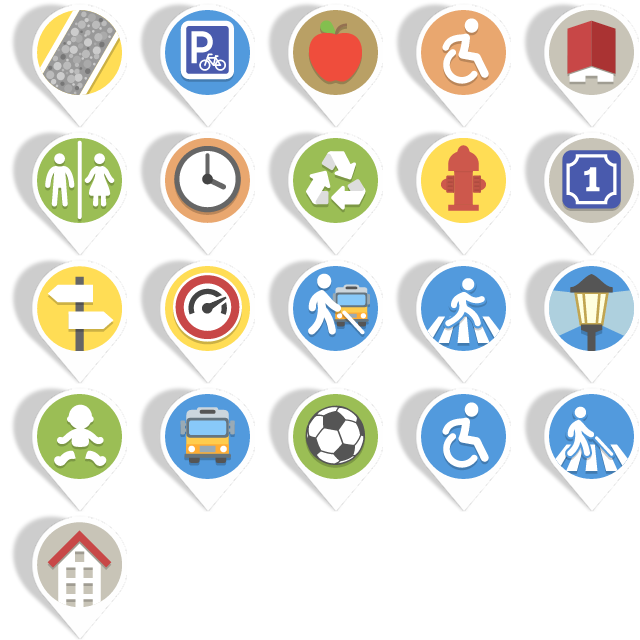
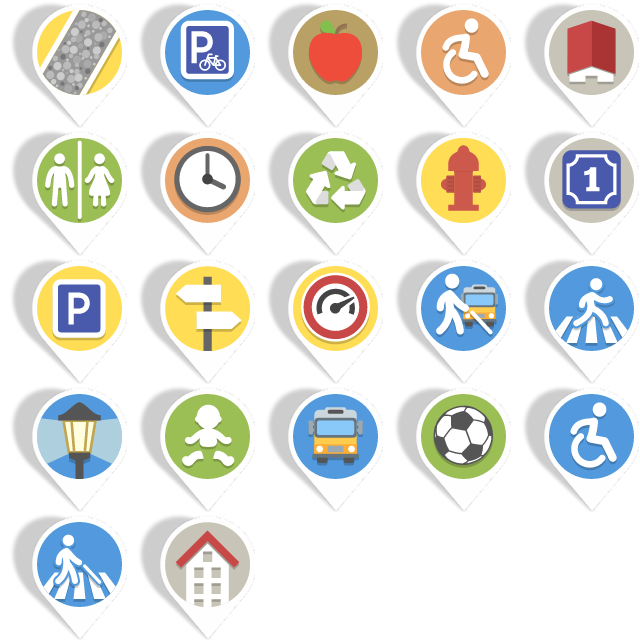
fix parking type, simplify workaround for https://github.com/tangrams/tangram-es/issues/1607

diff --git a/app/src/main/java/de/westnordost/streetcomplete/tangram/TangramQuestSpriteSheetCreator.java b/app/src/main/java/de/westnordost/streetcomplete/tangram/TangramQuestSpriteSheetCreator.java
@@ -27,7 +27,7 @@ import de.westnordost.streetcomplete.data.QuestTypes;
 public class TangramQuestSpriteSheetCreator
 {
 	private static final String QUEST_ICONS_FILE = "quests.png";
-	private static final String SPRITESHEET_YAML = "quests_spritesheet.yaml";
+	private static final String SPRITESHEET_YAML = "streetcomplete_quests.yaml";
 
 	private final Context context;
 	private final QuestTypes questTypes;
@@ -108,7 +108,11 @@ public class TangramQuestSpriteSheetCreator
 			context.deleteFile(SPRITESHEET_YAML);
 			FileOutputStream spriteSheetYamlFile = context.openFileOutput(SPRITESHEET_YAML, Context.MODE_PRIVATE);
 			PrintWriter p = new PrintWriter(spriteSheetYamlFile);
-			p.print(sprites);
+			p.println("textures:");
+			p.println("    quests:");
+			p.println("        url: "+QUEST_ICONS_FILE);
+			p.println("        filtering: mipmap");
+			p.println("        sprites: " + sprites);
 			p.flush();
 			p.close();
 		}

diff --git a/app/src/main/java/de/westnordost/streetcomplete/quests/parking_type/AddParkingType.java b/app/src/main/java/de/westnordost/streetcomplete/quests/parking_type/AddParkingType.java
@@ -6,6 +6,7 @@ import java.util.List;
 
 import javax.inject.Inject;
 
+import de.westnordost.streetcomplete.R;
 import de.westnordost.streetcomplete.data.osm.SimpleOverpassQuestType;
 import de.westnordost.streetcomplete.data.osm.changes.StringMapChangesBuilder;
 import de.westnordost.streetcomplete.data.osm.download.OverpassMapDataDao;
@@ -43,7 +44,5 @@ public class AddParkingType extends SimpleOverpassQuestType
 		return "Add parking type";
 	}
 
-	@Override public String getIconName() {
-		return "parking";
-	}
+	@Override public int getIcon() { return R.drawable.ic_quest_parking; }
 }
